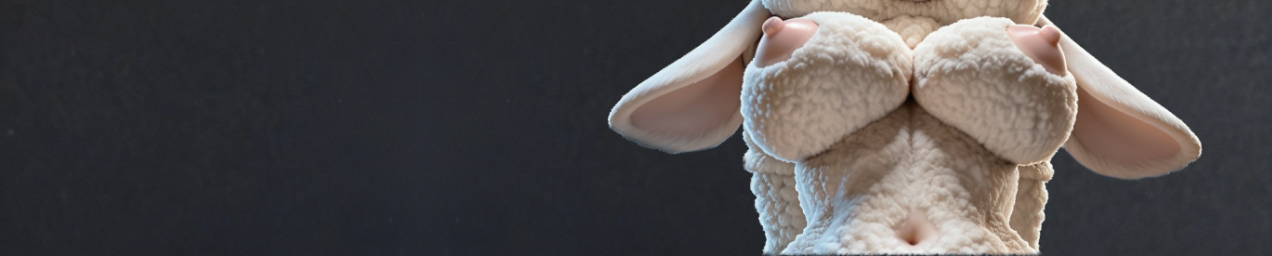
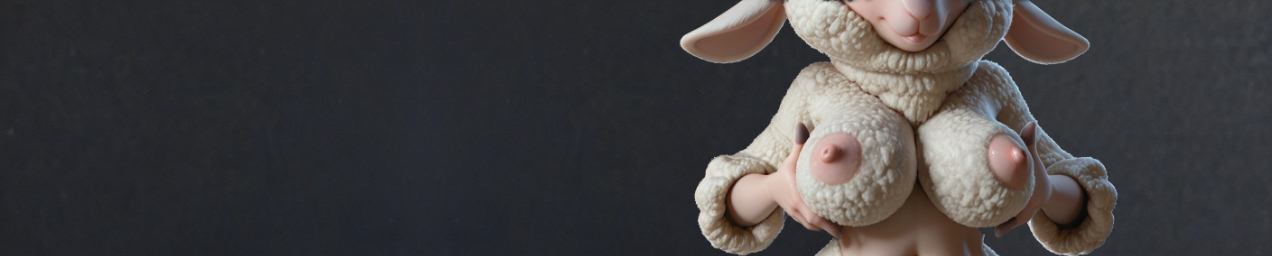
Few more >:)

diff --git a/app/javascript/src/styles/base/020_base.scss b/app/javascript/src/styles/base/020_base.scss
@@ -187,13 +187,14 @@ header#top {
 }
 
 #main-menu {
-  margin-top: 0.5rem;
+  margin-top: 25px;
   backdrop-filter: blur(3px);
   background-color: rgba(78, 79, 96, 0.47) !important;
   box-shadow: 0 0 5px rgba(29, 31, 34, 0.72);
   display: flex;
 
   #right-nav {
+    opacity: 0.4;
     flex: 1;
     display: flex;
     flex-direction: row-reverse;
